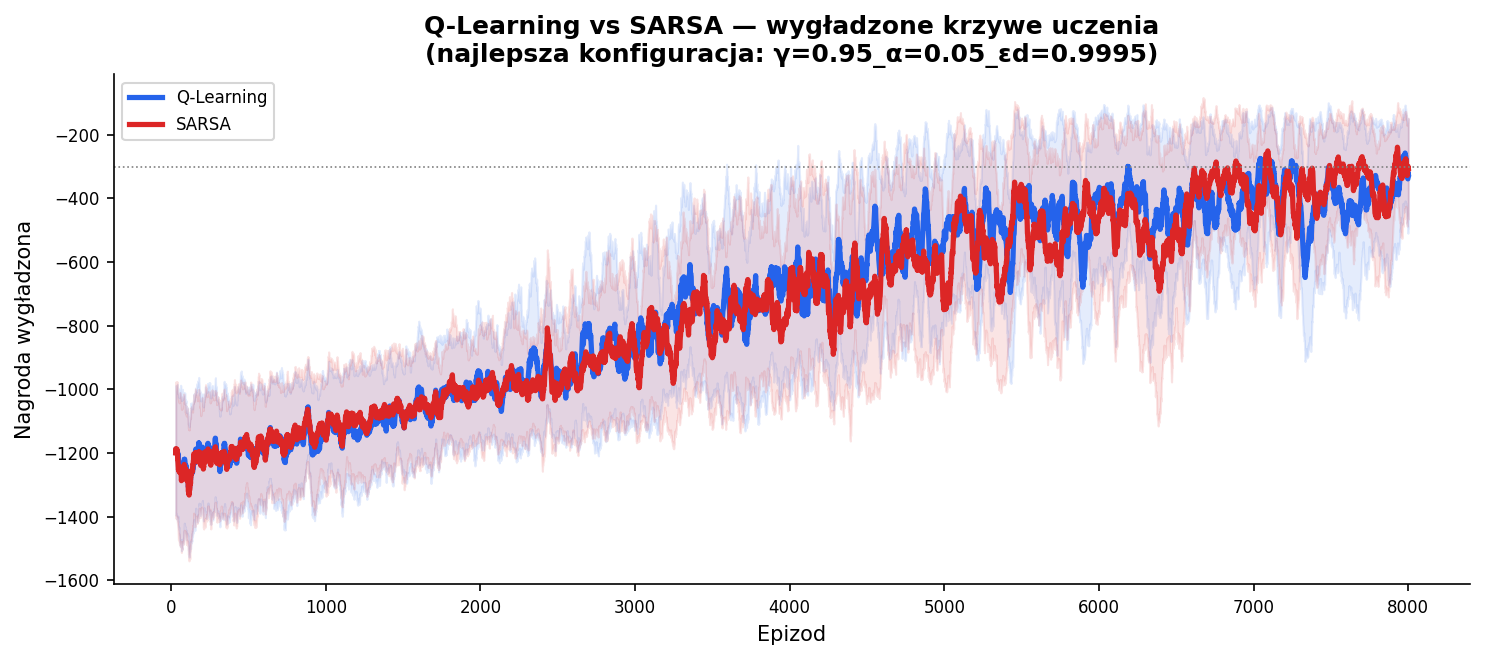
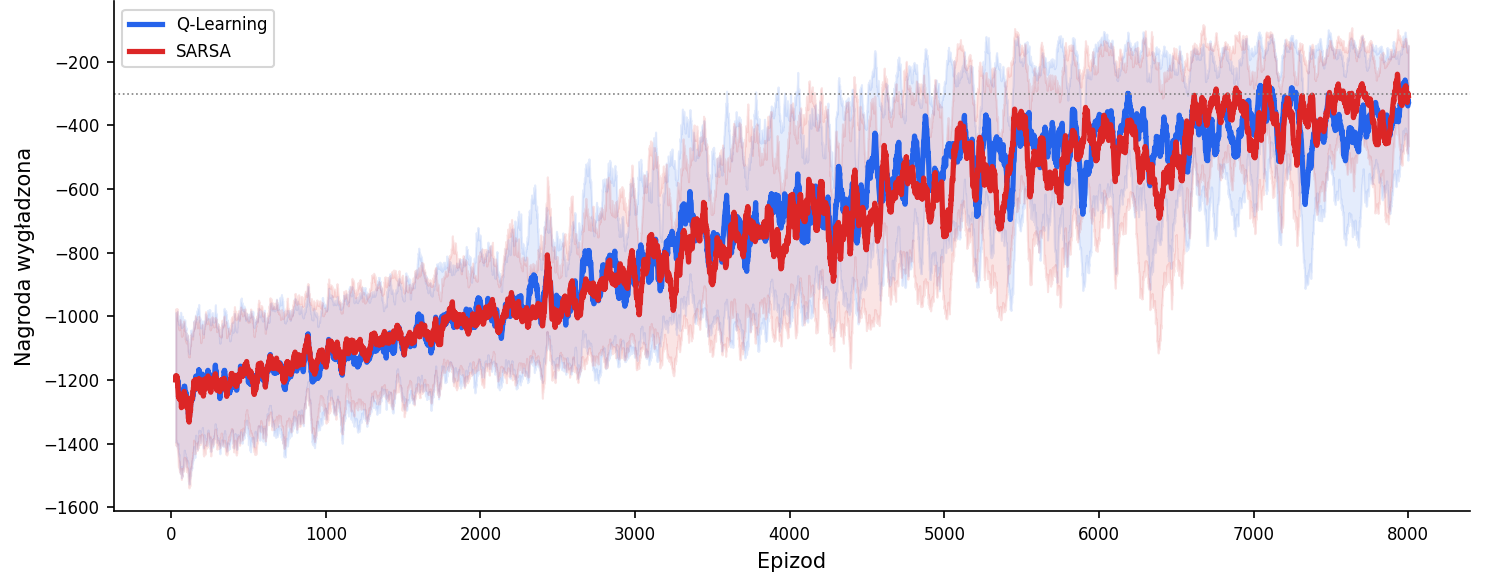
Added GIF example to README

diff --git a/README.md b/README.md
@@ -19,7 +19,12 @@ Development time: from 04.2026 to 06.2026
     - Q-table with state discretization.
 - Allowed for combining various algorithms, strategies, and state representations in a flexible way.
 - Trained models on the inverted pendulum control problem.
-- Tested and analyzed parameters' impact on effectiveness.
+- Tested and analyzed parameters' impact on effectiveness:
+    - discount factor,
+    - learning rate,
+    - epsilon decay,
+    - action space size,
+    - observation space size.
 
 ## Outcome
 Having compared Q-Learning's and SARSA's effectiveness in regard to parameters (learning rate, discount factor, epsilon decay), their outcome is rather similar in this environment. Figure 1 shows how rewards change with respect to episodes passed, for the best parameter configuration:
@@ -38,12 +43,17 @@ total number of episodes = 8000 </br>
 
 We see that both algorithms performed well.
 
+The most suprising observation was that the best size of action space was 3, where the models could only push the pendulum left with max force, push it right with max force, or do nothing at all.
+
 > For the purpose of the project, a more in-depth analysis of parameters' impact was conducted; however we have decided not to share it here.
 
 ## Visualization
 Below you can see a GIF showing a pendulum controled by a trained Q-Learning model:
 
-
+<p align="center">
+<img src="./Images/Example_GIF.gif" alt="./Images/Example_GIF.gif" width="75%"><br>
+<em>Figure 2: Q-Learning model controlling the pendulum.</em>
+</p>
 
 A quick presentation of the training process along with a few more examples can be seen in [this YouTube video](https://www.youtube.com/watch?v=yqmj4zeWN_Q).
 